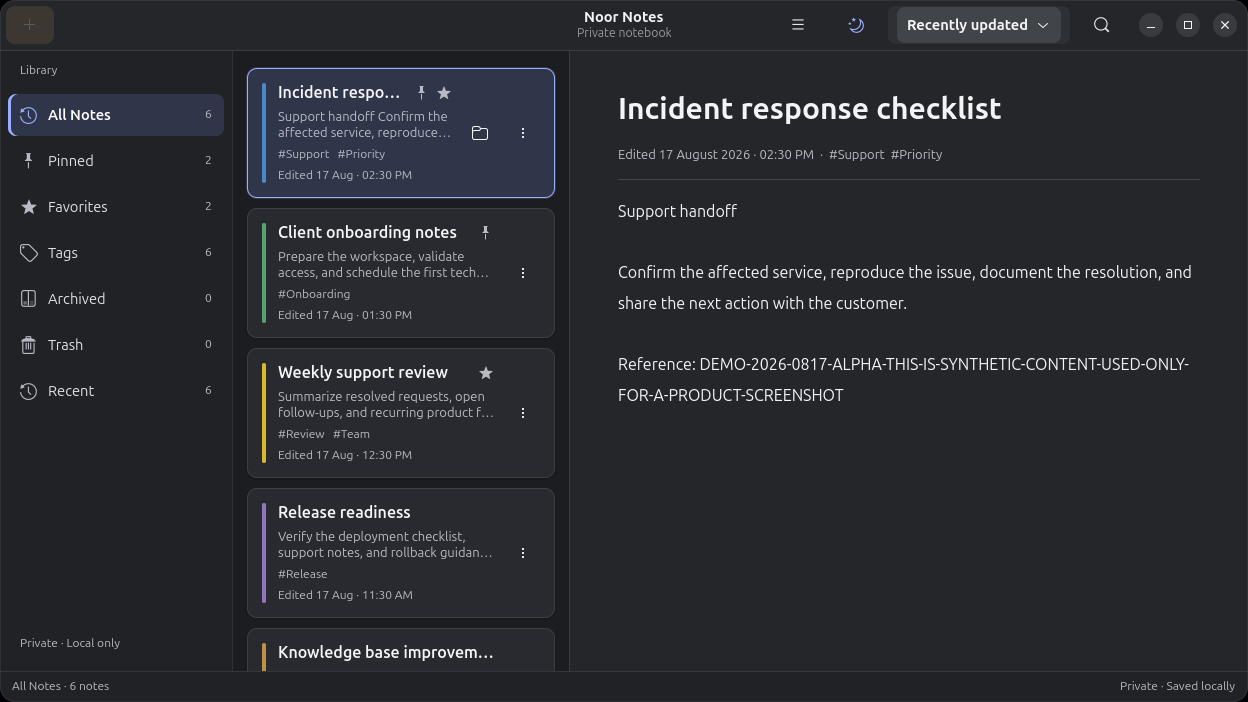
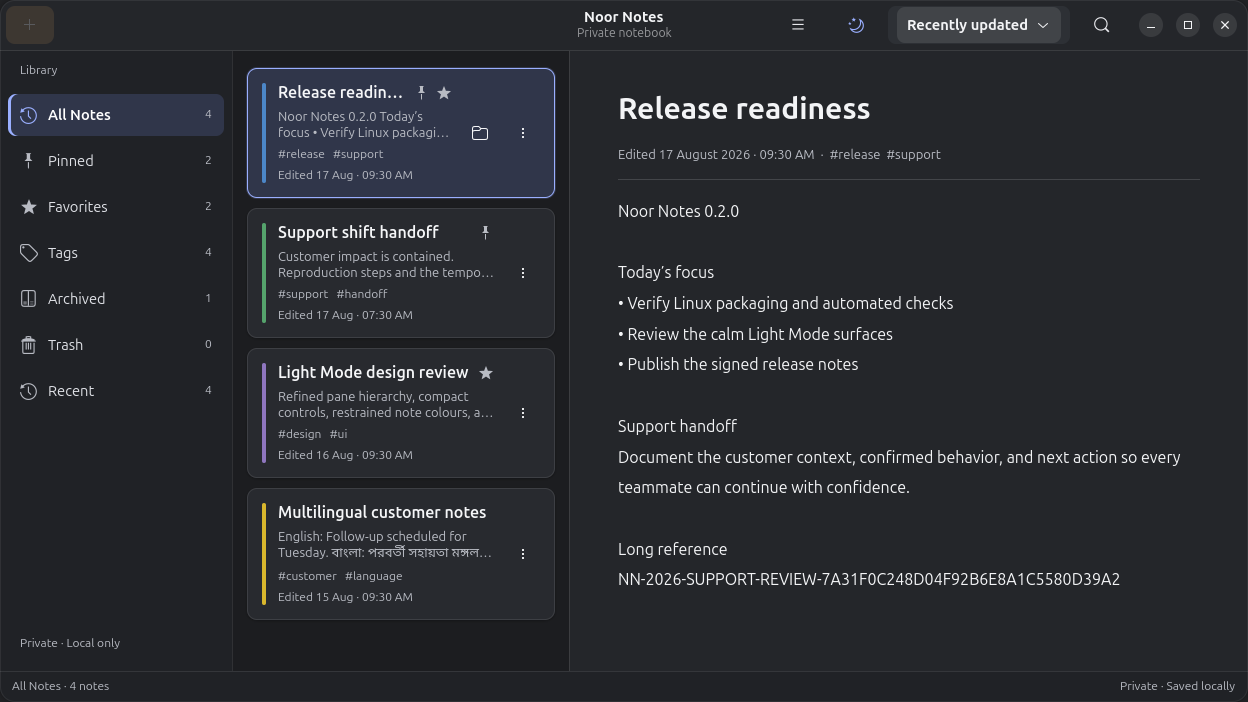
docs: refresh v0.2.0 Store screenshots

diff --git a/data/screenshots/INDEX.md b/data/screenshots/INDEX.md
@@ -1,6 +1,6 @@
 # Noor Notes screenshot gallery
 
-Most of this comprehensive visual reference was captured from the real GTK4/libadwaita interface on 9 August 2026. The stable Light and Graphite library overviews were refreshed on 17 August 2026 after the Light Mode update. Every capture used an isolated temporary SQLCipher database with synthetic notes; no personal note database was opened.
+Most of this comprehensive visual reference was captured from the real GTK4/libadwaita interface on 9 August 2026. The five Store views were refreshed from the v0.2.0 interface on 17 August 2026. Every refreshed capture used an isolated temporary SQLCipher database with synthetic notes; no personal note database was opened.
 
 All individual screenshots and gallery overviews use a stable 1248 × 702 RGB canvas. “Compact” documents the smallest visible non-maximized window; a truly minimized window cannot be screenshotted because it is not rendered.
 
@@ -10,6 +10,7 @@ Download or print the complete 98-page collection as [noor-notes-complete-galler
 
 - [noor notes library](noor-notes-library.png)
 - [noor notes editor](noor-notes-editor.png)
+- [noor notes writing assistance](noor-notes-writing-assistance.png)
 - [noor notes dark](noor-notes-dark.png)
 - [noor notes formatting](noor-notes-formatting.png)
 - [noor notes find replace](noor-notes-find-replace.png)
